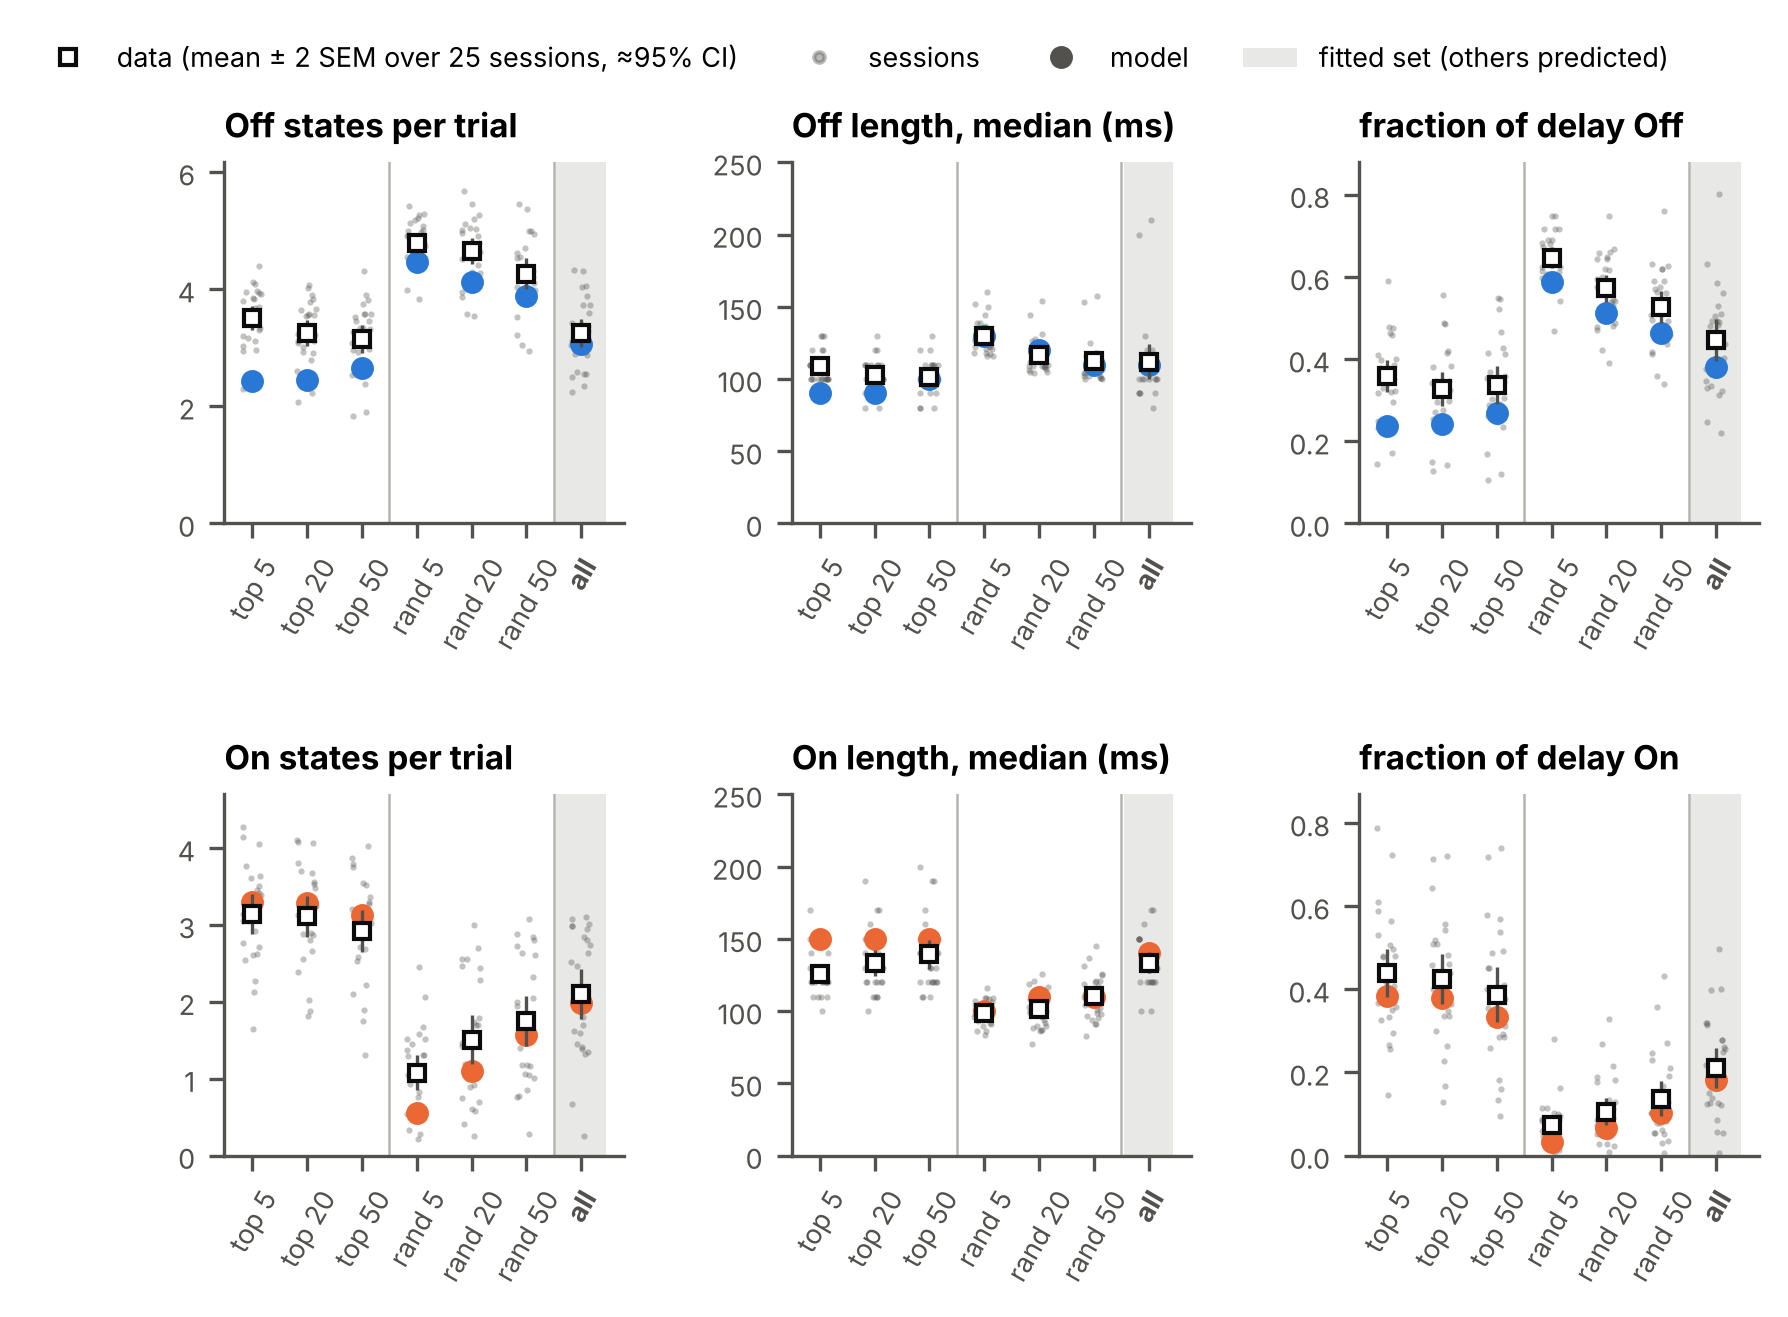
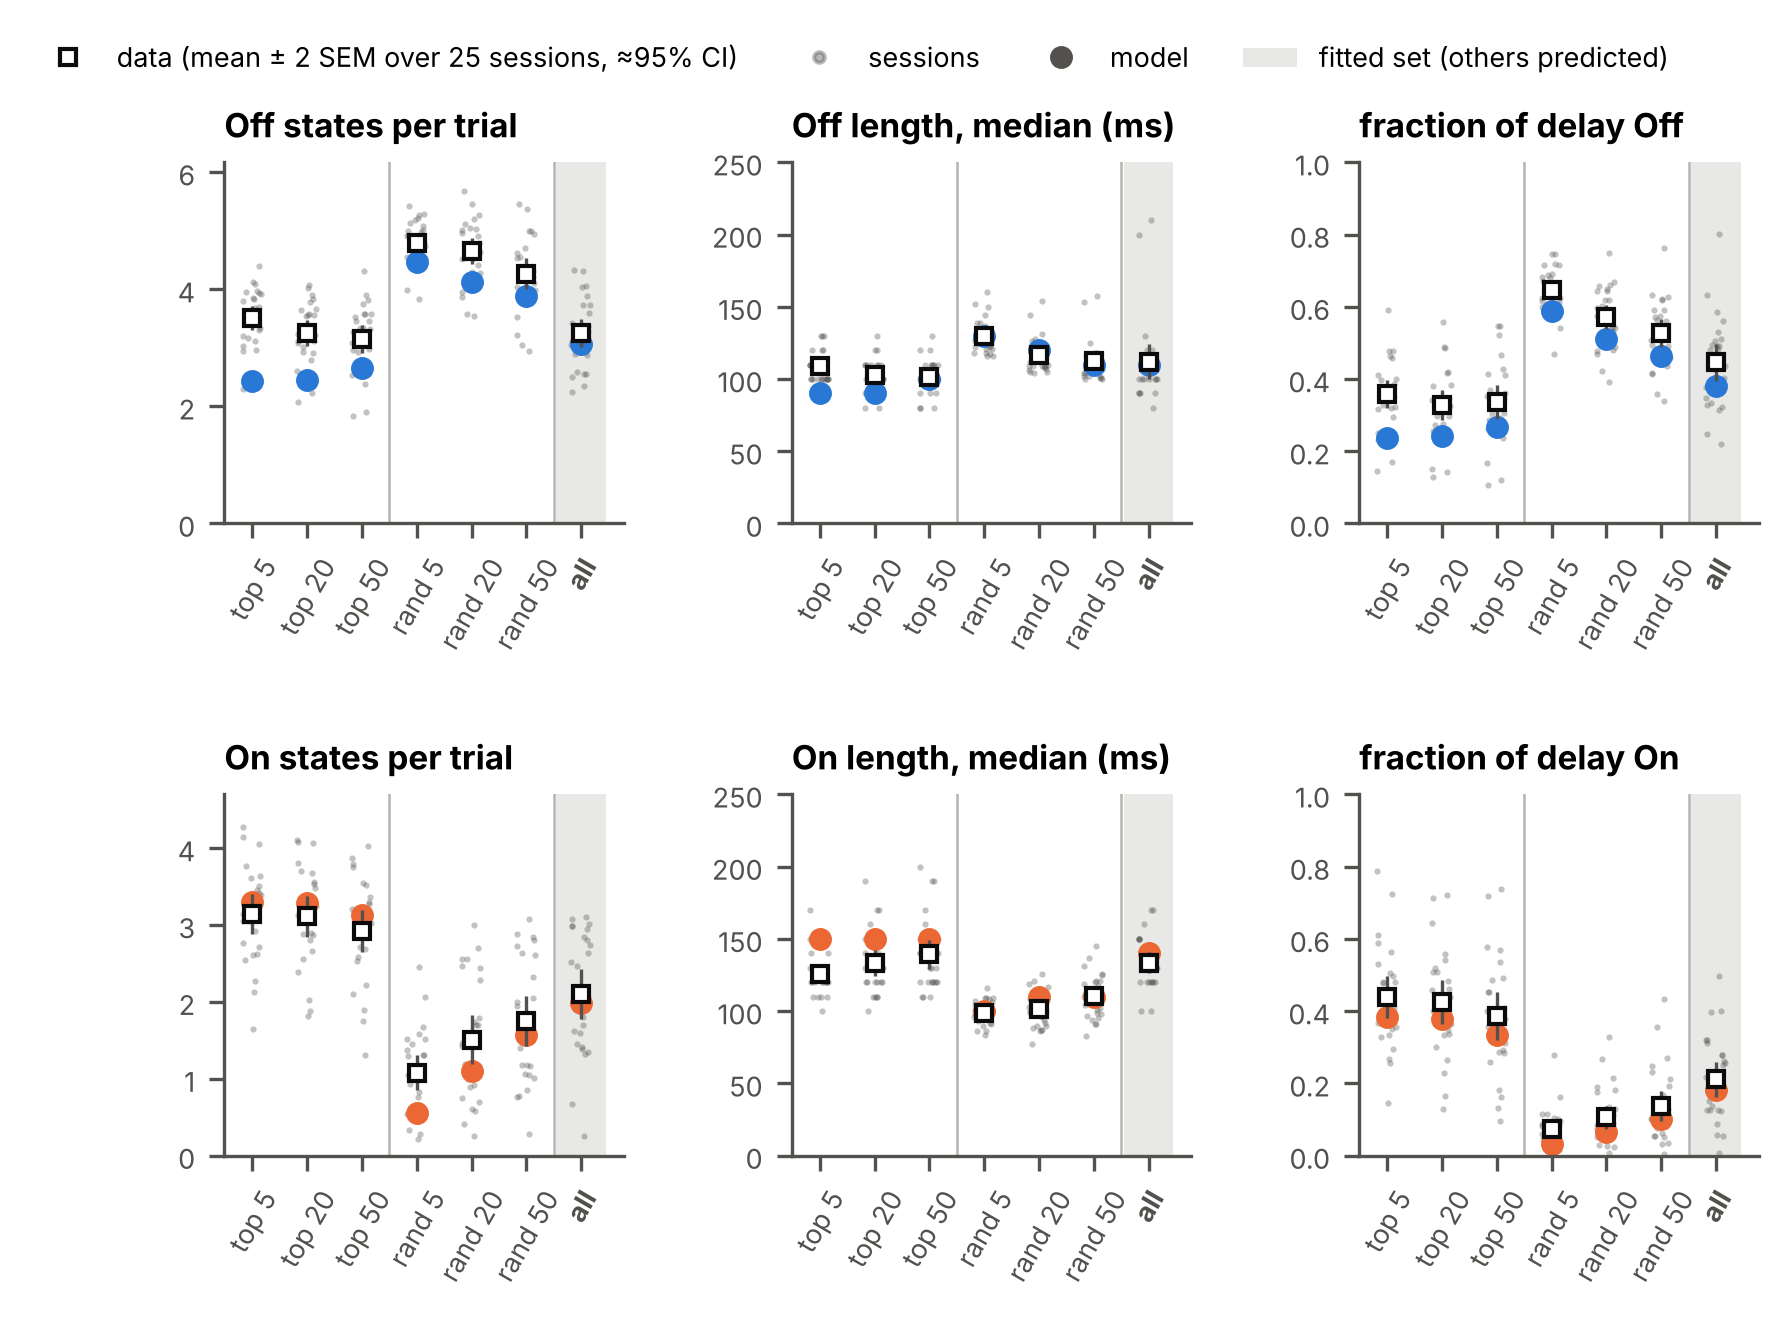
Figure 2: fraction-of-delay axes 0-1
Claude-Session: https://claude.ai/code/session_01DWA8oLxpZgubPZ4A6kb3Lh

diff --git a/paper_model/make_figures.py b/paper_model/make_figures.py
@@ -170,7 +170,7 @@ def figure2(out, summ, path):
         j = R.SETS.index(M.FIT_SET)
         a.axvspan(j - 0.45, j + 0.45, color=MUTED, alpha=0.3, lw=0, zorder=0)    # the set the dynamics were fitted to
         a.get_xticklabels()[j].set_fontweight('bold')
-        a.set_ylim(0, 250 if mk in ('off_median', 'on_median') else a.get_ylim()[1] * 1.05)   # lengths: same axis
+        a.set_ylim(0, 250 if mk in ('off_median', 'on_median') else 1 if mk.startswith('frac') else a.get_ylim()[1] * 1.05)
         a.tick_params(labelsize=6.5)
     fig.legend(handles=[Line2D([], [], ls='', marker='s', ms=4, mfc='white', mec=INK, label='data (mean ± 2 SEM over 25 sessions, ≈95% CI)'),
                         Line2D([], [], ls='', marker='.', ms=5, color=INK2, alpha=0.4, label='sessions'),
